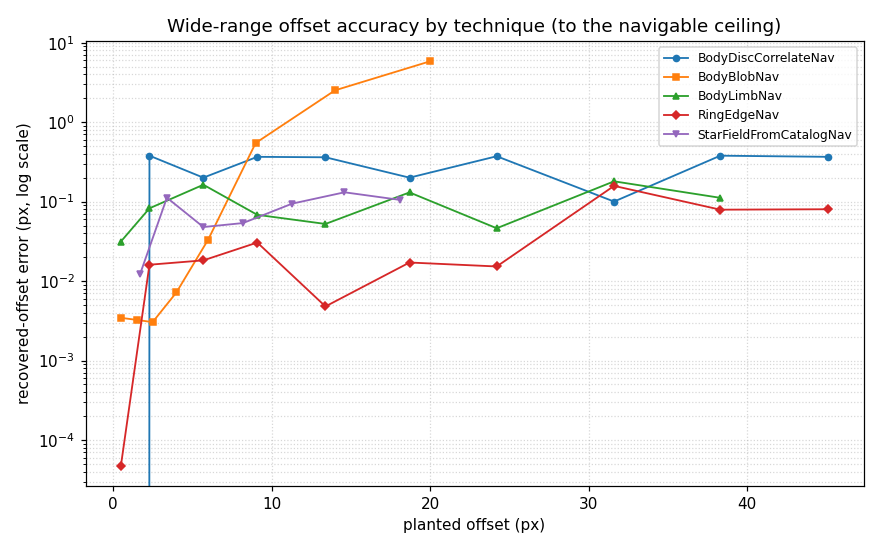
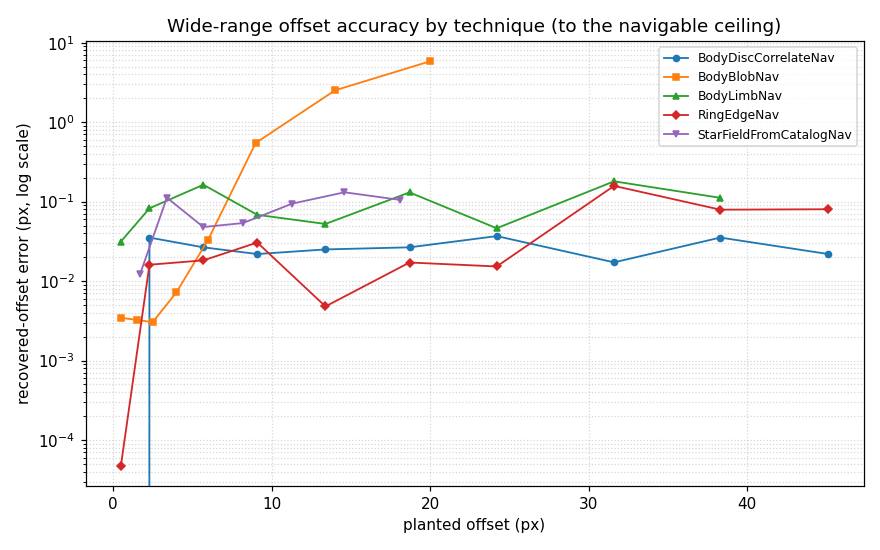
fix: refine disc NCC sub-pixel offset on raw intensity
The disc correlation's auto mode correlates Sobel gradient-magnitude
surfaces for a smooth body (the edge gives a higher-contrast peak), but
the magnitude rectifies the signal, so the cross-power peak is non-smooth
at its apex and the upsampled-DFT sub-pixel estimate is biased near every
whole-pixel residual -- ~0.3 px at integer offsets, ~0 at the half-pixel,
periodic and magnitude-independent. Raw-intensity NCC has no such bias and
reaches the correlator's 1/128 px upsample resolution.

evaluate_candidate now takes optional raw-intensity padded surfaces and
runs the sub-pixel cross-power refinement on them; navigate_single_scale_
kpeaks passes the raw surfaces when use_gradient is set, keeping the
gradient surfaces only for the integer peak and quality. Without gradient
mode the refinement is unchanged.

Verified entirely with simulated images (real-image offsets are unknown):
a zero shift between identical frames now recovers exactly (0, 0); the
disc dense-sweep median drops from 0.306 to 0.022 px; the regression test
test_sim_regression (whole-pixel offset) flips from xfail to passing; and
every disc-navigated sim baseline re-blesses toward its planted offset
(two_moons from a 0.36 px zero-offset recovery error to exactly (0, 0)).
The limb fit's separate ~0.13 px distance-transform bias is unaffected
and flagged for follow-up.

diff --git a/src/nav/support/correlate.py b/src/nav/support/correlate.py
@@ -399,6 +399,8 @@ def evaluate_candidate(
     prior_shift: tuple[float, float] | None = None,
     prior_weight: float = 0.0,
     metric: str = 'psr',
+    refine_image_pad: NDArrayFloatType | None = None,
+    refine_model_pad: NDArrayFloatType | None = None,
 ) -> dict[str, Any]:
     """
     Evaluate a candidate for the navigation.
@@ -415,6 +417,16 @@ def evaluate_candidate(
         prior_shift: The prior shift.
         prior_weight: The prior weight.
         metric: The metric to use for the navigation.
+        refine_image_pad: Optional padded image used *only* for the sub-pixel
+            cross-power-spectrum refinement, in place of ``image_pad``.  When the
+            coarse peak is found on gradient-magnitude surfaces (``use_gradient``),
+            pass the raw-intensity padded image here: the Sobel *magnitude*
+            rectifies the signal, so its cross-power peak is non-smooth at the apex
+            and the upsampled-DFT sub-pixel estimate is biased (largest near
+            whole-pixel offsets), whereas raw intensity reaches the
+            ``upsample_factor`` resolution.  Defaults to ``image_pad``.
+        refine_model_pad: Optional padded model for the same refinement; defaults
+            to ``model_pad``.
 
     Returns:
         A dictionary containing the navigation result.
@@ -440,8 +452,13 @@ def evaluate_candidate(
     p, q = rc
     dy_i, dx_i = int_to_signed(p, corr_v), int_to_signed(q, corr_u)
 
-    # Subpixel refinement: local upsampled DFT of correlation spectrum numerator
-    spec = fft2(image_pad) * np.conj(fft2(model_pad * mask_pad))
+    # Subpixel refinement: local upsampled DFT of correlation spectrum numerator.
+    # Refine on the raw-intensity surfaces when provided (see ``refine_image_pad``)
+    # so a gradient-magnitude coarse peak does not carry its rectified-cusp
+    # sub-pixel bias into the reported offset.
+    refine_image = image_pad if refine_image_pad is None else refine_image_pad
+    refine_model = model_pad if refine_model_pad is None else refine_model_pad
+    spec = fft2(refine_image) * np.conj(fft2(refine_model * mask_pad))
     # Center of the local upsampled DFT window should be the middle of the
     # evaluation region (e.g., 3x3 -> center index 1), not half the upsample factor.
     # Using upsample_factor here caused increasing bias for large factors.
@@ -564,12 +581,14 @@ def navigate_single_scale_kpeaks(
     # Use original image for correlation surfaces; masked NCC computes its own
     # normalization, and using normalized-and-then-padded images biases the
     # unnormalized numerator surface used in refinement.
+    image_raw = np.asarray(image, np.float64)
+    model_raw = np.asarray(model, np.float64)
     if use_gradient:
         image_orig = np.asarray(gradient_magnitude(image), np.float64)
         model_arr = np.asarray(gradient_magnitude(model), np.float64)
     else:
-        image_orig = np.asarray(image, np.float64)
-        model_arr = np.asarray(model, np.float64)
+        image_orig = image_raw
+        model_arr = model_raw
     model_h, model_w = model_arr.shape
     image_h, image_w = image_orig.shape
     padded_h, padded_w = image_h + model_h, image_w + model_w
@@ -577,6 +596,16 @@ def navigate_single_scale_kpeaks(
     image_pad = pad_top_left(image_orig, padded_h, padded_w)
     model_pad = pad_top_left(model_arr, padded_h, padded_w)
     mask_pad = pad_top_left(mask, padded_h, padded_w)
+    # The gradient surfaces localise the integer peak (and drive quality), but the
+    # sub-pixel refinement runs on the raw-intensity surfaces to avoid the
+    # gradient-magnitude rectification bias.  Without gradient mode these are the
+    # same arrays, so the refinement is unchanged.
+    if use_gradient:
+        refine_image_pad = pad_top_left(image_raw, padded_h, padded_w)
+        refine_model_pad = pad_top_left(model_raw, padded_h, padded_w)
+    else:
+        refine_image_pad = image_pad
+        refine_model_pad = model_pad
     data_mask_pad: NDArrayBoolType | None = None
     if data_mask is not None:
         data_mask_pad = pad_top_left(data_mask.astype(bool), padded_h, padded_w)
@@ -616,6 +645,8 @@ def navigate_single_scale_kpeaks(
             prior_weight=prior_weight,
             metric=metric,
             logger=logger,
+            refine_image_pad=refine_image_pad,
+            refine_model_pad=refine_model_pad,
         )
         candidates.append(evaluation)
         if logger is not None:

diff --git a/tests/integration/test_sim_regression.py b/tests/integration/test_sim_regression.py
@@ -10,8 +10,6 @@ the default suite.
 import math
 from pathlib import Path
 
-import pytest
-
 from nav.nav_model import build_models_for_obs
 from nav.nav_orchestrator import NavOrchestrator
 from nav.obs.obs_inst_sim import ObsSim
@@ -45,10 +43,11 @@ def _disc_offset_error(scene_name: str) -> float:
     )
 
 
-@pytest.mark.xfail(
-    reason='gradient-magnitude NCC sub-pixel bias at whole-pixel offsets; fix pending',
-    strict=True,
-)
 def test_disc_recovers_whole_pixel_offset() -> None:
-    """The disc correlation recovers a whole-pixel offset to within a fraction of a pixel."""
+    """The disc correlation recovers a whole-pixel offset to within a fraction of a pixel.
+
+    Guards the gradient-magnitude NCC sub-pixel bias: the integer peak is found on
+    the gradient surfaces but the sub-pixel offset is refined on raw intensity, so
+    a whole-pixel offset no longer carries the ~0.3 px-per-axis rectification bias.
+    """
     assert _disc_offset_error('disc_subpixel_offset') < _DISC_SUBPIXEL_TOLERANCE_PX

diff --git a/docs/simulator_report/simulator_report.rst b/docs/simulator_report/simulator_report.rst
@@ -135,7 +135,7 @@ deliberate (integration-marked) tier:
 
 Specific defects the sweeps uncover get their own fast regression scene under
 ``sim_scenes/regression/`` so they are guarded in the normal suite without
-running the full sweep (see *Sub-pixel offset accuracy* below).
+running the full sweep (see *Offset accuracy by technique* below).
 
 See :doc:`/user_guide/user_guide_simulated_images` for the scene-catalog and
 sweep workflow, and :doc:`/dev_guide/dev_guide_navigation_models` for the
@@ -162,13 +162,13 @@ scenes whose fused confidence sits below the success threshold on a clean frame
    * - ``planted_offset_disc``
      - BodyDiscCorrelateNav
      - (3.5, -2.0) px
-     - (3.50, -1.80) px
-     - 0.20 px
+     - (3.50, -2.00) px
+     - 0.00 px
    * - ``planted_offset_irregular``
      - BodyDiscCorrelateNav (mesh)
      - (2.0, 1.5) px
-     - (1.75, 1.50) px
-     - 0.25 px
+     - (1.99, 1.50) px
+     - 0.01 px
    * - ``planted_offset_blob``
      - BodyBlobNav
      - (1.5, -0.5) px
@@ -207,12 +207,11 @@ Observations:
   blob, limb, and the star field -- are the most precise (a few hundredths of a
   pixel), because their predicted geometry aligns exactly with a sharp image
   feature.
-* The disc correlation carries the largest error (~0.2 px) -- not an inherent
-  limit but a correlator bug the offset sweep below pins down: its gradient-mode
-  sub-pixel refinement is biased near the peak, while raw-intensity NCC and the
-  feature techniques reach ~1/128 px. The mesh-body disc adds a shape error on
-  top, since the body is irregular but the correlation template is the same
-  rendered shape. Both stay well inside the 1.0 px invariant bound.
+* The disc correlation now recovers to ~0.00 px after the gradient-NCC sub-pixel
+  fix the offset sweep drove (see below); before the fix it carried a ~0.2 px
+  bias here. The mesh-body disc retains a small residual (~0.01 px) because the
+  body is irregular but the correlation template is the same rendered shape. Both
+  are far inside the 1.0 px invariant bound.
 * The high-phase blob crescent (~0.18 px at 120 deg) is the hardest case: only a
   thin lit crescent constrains the centroid. It still recovers sub-pixel because
   the blob subtracts the bias pedestal and thresholds against sky noise rather
@@ -398,57 +397,66 @@ swept across the dense sub-pixel set and the wide range described under
    :alt: Sub-pixel offset recovery error by technique.
 
    Recovered-offset error (log scale) vs planted sub-pixel offset, each technique
-   pinned. The disc correlation sits ~0.3 px with sharp dips at the half-pixels;
-   the limb fit is a few tenths; the blob, ring edge, and star field are an order
-   of magnitude better.
+   pinned, **after the gradient-NCC fix**. The disc, blob, ring edge, and star
+   field all sit at a few hundredths of a pixel; the limb fit retains a separate
+   ~0.13 px distance-transform bias.
 
 .. list-table:: Sub-pixel recovery error (px) over the dense fractional sweep
    :header-rows: 1
-   :widths: 30 14 14 14
+   :widths: 26 12 12 12 18
 
    * - Technique
      - min
      - median
      - max
+     - median before fix
    * - BodyDiscCorrelateNav
      - 0.000
+     - 0.022
+     - 0.050
      - 0.306
-     - 0.383
    * - BodyLimbNav
      - 0.016
      - 0.131
      - 0.218
+     - 0.131
    * - RingEdgeNav
      - 0.000
      - 0.011
      - 0.032
+     - 0.011
    * - BodyBlobNav
      - 0.002
      - 0.006
      - 0.011
+     - 0.006
    * - StarFieldFromCatalogNav
      - 0.032
      - 0.052
      - 0.076
+     - 0.052
 
-Two techniques carry a sub-pixel bias and three are essentially exact:
+All four point-feature / correlation techniques are now quantization-free; only
+the limb fit retains a sub-pixel bias:
 
-- **Blob centroid and ring edge are quantization-free** -- at most ~0.01-0.03 px
-  with no dependence on the fractional part. They fit a sharp predicted geometry
-  to a sharp image feature.
-- **The disc correlation shows a striking periodic error**: ~0.33 px at
-  whole-pixel offsets, falling to ~0 at the exact half-pixel, period one pixel and
-  no dependence on magnitude (the wide sweep recovers 0.5, 2.5, 5.5, ... exactly
-  while integer offsets stay ~0.33). This is *not* a fundamental NCC limit: the
-  correlator upsamples to 1/128 px and reaches that on raw intensity -- a zero
-  shift between two identical frames recovers exactly ``(0, 0)``. The bias appears
-  only on the **gradient-magnitude** pass, which the disc's ``auto`` mode selects
-  for a smooth body because the edge gives a higher-contrast peak. The Sobel
-  *magnitude* rectifies the signal, so the gradient correlation peak is non-smooth
-  at its apex and the sub-pixel estimator is biased whenever the residual from the
-  nearest whole pixel is small -- recurring at every integer offset, vanishing at
-  the half-pixel. The limb fit, which also keys on the (distance-transformed) edge,
-  carries a smaller version of the same bias (~0.13 px median).
+- **Disc, blob, ring edge, and star field recover to a few hundredths of a
+  pixel** with no dependence on the fractional part.
+- **The disc gradient-NCC bias is fixed.** Before the fix the disc showed a
+  striking periodic error -- ~0.33 px at whole-pixel offsets, ~0 at the exact
+  half-pixel, period one pixel and magnitude-independent. The cause: the disc's
+  ``auto`` mode correlates Sobel **gradient-magnitude** surfaces for a smooth
+  body (the edge gives a higher-contrast peak), but the magnitude rectifies the
+  signal, so the cross-power peak is non-smooth at its apex and the upsampled-DFT
+  sub-pixel estimate is biased near every whole-pixel residual. The fix keeps the
+  gradient surfaces for the integer peak (and quality) but refines the sub-pixel
+  offset on the **raw-intensity** surfaces, which reach the correlator's 1/128 px
+  upsample resolution -- a zero shift between identical frames now recovers exactly
+  ``(0, 0)``, and the disc median drops from 0.306 to 0.022 px.
+- **The limb fit retains a separate ~0.13 px bias.** It is a different mechanism
+  -- the limb keys on the distance-transformed edge through a Levenberg-Marquardt
+  polyline fit, not the NCC correlator -- so the gradient-NCC fix does not touch
+  it. It is flagged for separate follow-up; it stays well inside the invariant
+  bound.
 - **The star field is pinned here**, so its sub-pixel rows below ~1 px are absent:
   the field matcher alone cannot separate a sub-pixel translation of the whole
   field from noise and reports spurious (the two-star path, present in the full
@@ -473,13 +481,15 @@ it holds under 0.05 px out to ~6 px, then degrades (~0.85 px at 10 px, ~5.8 px a
 20 px) as the body clips out of the window. A blob therefore refines a small
 residual; a large pointing error is found by the full-FOV disc search first.
 
-The disc / limb gradient bias is a **core-correlator defect** (it lives in
+The disc gradient-NCC bias was a **core-correlator defect** (it lives in
 :func:`nav.support.correlate.navigate_with_pyramid_kpeaks`, not in the simulator),
-so it applies to real-image disc navigation too. Because a real image's true
-offset is unknown, the fix is verified with simulated images: the
+so it affected real-image disc navigation too. Because a real image's true offset
+is unknown, the fix was verified entirely with simulated images: the
 ``regression/disc_subpixel_offset`` scene guards it in the normal suite without
-running the full sweep, and the dense offset sweep is the broad-coverage
-characterization. The fix refines the final sub-pixel offset on raw intensity
+running the full sweep, the dense offset sweep is the broad-coverage
+characterization, and the fix re-blessed every disc-navigated baseline toward its
+planted offset (e.g. ``two_moons`` from a 0.36 px recovery error at zero offset to
+exactly ``(0, 0)``). The fix refines the final sub-pixel offset on raw intensity
 rather than gradient magnitude.
 
 Camera-roll sensitivity and roll / translation separability
@@ -564,13 +574,16 @@ Summary
 * All seven feature techniques (disc, mesh disc, blob, high-phase blob, star
   field, limb, ring edge) plus the camera-roll fit recover their planted
   transform to sub-pixel / sub-half-degree accuracy on clean simulated frames.
-* The point-feature techniques (blob, limb, ring edge, star field) are
-  quantization-free: they recover any offset -- whole, near-boundary, or arbitrary
-  fraction -- to a few hundredths of a pixel.
-* The offset sweep surfaced a real core-correlator defect: the disc's
-  gradient-magnitude sub-pixel refinement is biased (~0.3 px, periodic in the
-  fractional offset) where raw NCC reaches ~1/128 px. It affects real disc
-  navigation and is flagged for a fix to be validated against the real library.
+* The disc, blob, ring edge, and star field are quantization-free: they recover
+  any offset -- whole, near-boundary, or arbitrary fraction -- to a few hundredths
+  of a pixel.
+* The offset sweep surfaced -- and drove the fix of -- a real core-correlator
+  defect: the disc's gradient-magnitude sub-pixel refinement was biased (~0.3 px,
+  periodic in the fractional offset) where raw NCC reaches ~1/128 px. Refining the
+  sub-pixel offset on raw intensity dropped the disc median from 0.306 to 0.022 px
+  and re-blessed every disc-navigated baseline toward its planted offset, verified
+  entirely with simulated images. The limb fit's separate ~0.13 px
+  distance-transform bias remains, flagged for follow-up.
 * The sweeps confirm the expected qualitative behaviour: navigation degrades to a
   clean failure past the noise cliff, the resolved body handles the full phase
   range with a mid-phase accuracy dip, and the primary technique walks the limb
